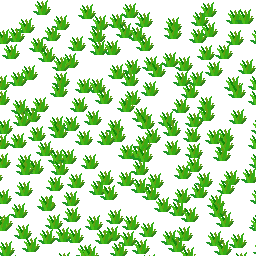
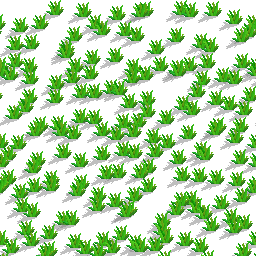
add grass texture and fix walking

diff --git a/frontend/src/lib/BackgroundScroller.svelte b/frontend/src/lib/BackgroundScroller.svelte
@@ -1,19 +1,9 @@
 <script>
   import skyTexture from '$lib/assets/images/sky-texture.png';
-  import grassTexture from '$lib/assets/images/actual_tiled_grass_1.png';
+  import grassTexture1 from '$lib/assets/images/actual_tiled_grass_1.png';
+  import grassTexture2 from '$lib/assets/images/actual_tiled_grass_2.png';
+
 </script>
-
-<div class="background-container">
-  <div
-    class="background-layer sky"
-    style="background-image: url('{skyTexture}')"
-  ></div>
-
-  <div
-    class="background-layer grass"
-    style="background-image: url('{grassTexture}')"
-  ></div>
-</div>
 
 <style>
   .background-container {
@@ -21,6 +11,9 @@
     inset: 0;
     overflow: hidden;
     z-index: 0;
+    /* seconds per full scroll */
+    --sky-scroll-speed: 60s;
+    --grass-scroll-speed: 12.6s;  
   }
 
   .background-layer {
@@ -35,7 +28,7 @@
     height: 100%;
     top: 0;
     background-size: auto 100%;
-    animation: scrollSky 60s linear infinite;
+    animation: scrollSky var(--sky-scroll-speed) linear infinite;
   }
 
   .grass {
@@ -43,7 +36,29 @@
     bottom: 0;
     top: auto;
     background-size: auto 100%;
-    animation: scrollGrass 10s linear infinite;
+    background: linear-gradient(to top, #147714 0%, #189218 93%, transparent 93%, transparent 100%);
+  }
+
+  .grass-frame-1 {
+    height: 50%;
+    bottom: 0;
+    top: auto;
+    background-size: auto 250%;
+    opacity: 1;
+    animation:
+      scrollGrass var(--grass-scroll-speed) linear infinite,
+      grassSwapOff 0.6s steps(1, end) infinite;
+  }
+
+  .grass-frame-2 {
+    height: 50%;
+    bottom: 0;
+    top: auto;
+    background-size: auto 250%;
+    opacity: 0;
+    animation:
+      scrollGrass var(--grass-scroll-speed) linear infinite,
+      grassSwapOn 0.6s steps(1, end) infinite;
   }
 
   /* Move by a fixed pixel distance; repeat-x makes it seamless */
@@ -56,4 +71,29 @@
     from { background-position: 0 0; }
     to   { background-position: 2000px 0; }
   }
+
+  /* Swap frames every 0.3s (period is 0.6s). steps() prevents cross-fade. */
+  @keyframes grassSwapOff {
+    0%, 49.999% { opacity: 1; }
+    50%, 100%   { opacity: 0; }
+  }
+
+  @keyframes grassSwapOn {
+    0%, 49.999% { opacity: 0; }
+    50%, 100%   { opacity: 1; }
+  }
 </style>
+
+
+<div class="background-container">
+  <div
+    class="background-layer sky"
+    style="background-image: url('{skyTexture}');"
+  ></div>
+
+  <div class="background-layer grass"></div>
+  <div class="background-layer grass-frame-1" style="background-image: url('{grassTexture1}');"></div>
+  <div class="background-layer grass-frame-2" style="background-image: url('{grassTexture2}');"></div>
+
+</div>
+

diff --git a/frontend/src/routes/+page.svelte b/frontend/src/routes/+page.svelte
@@ -29,7 +29,7 @@
   let prefetchQueue: string[] = [];
 
   const BASE_VOLUME = 0.5;
-  const FADE_OUT_SECONDS = 0.1;
+  const FADE_OUT_SECONDS = 0.5;
   const activeAudios = new Set<HTMLAudioElement>();
   const fadingAudios = new Set<HTMLAudioElement>();
   const fadeOutRafByAudio = new Map<HTMLAudioElement, number>();
@@ -132,7 +132,7 @@
 
     const tick = (now: number) => {
       const t = Math.min(1, (now - startAt) / durationMs);
-      audio.volume = startVol * (1 - t);
+      audio.volume = startVol * Math.sqrt(1 - t);
       if (t < 1 && !audio.paused) {
         const raf = requestAnimationFrame(tick);
         fadeOutRafByAudio.set(audio, raf);
@@ -217,7 +217,7 @@
     fadeOutAllPlaying(FADE_OUT_SECONDS);
 
     // Play from the prefetch queue (and immediately top it up to stay 10 ahead).
-    const nextId = prefetchQueue.shift() ?? randomSoundId();
+    const nextId = prefetchQueue.shift() ?? Math.floor(Math.random() * 101).toString().padStart(3, '0');
     playSound(nextId);
     topUpPrefetchQueue();
   }
